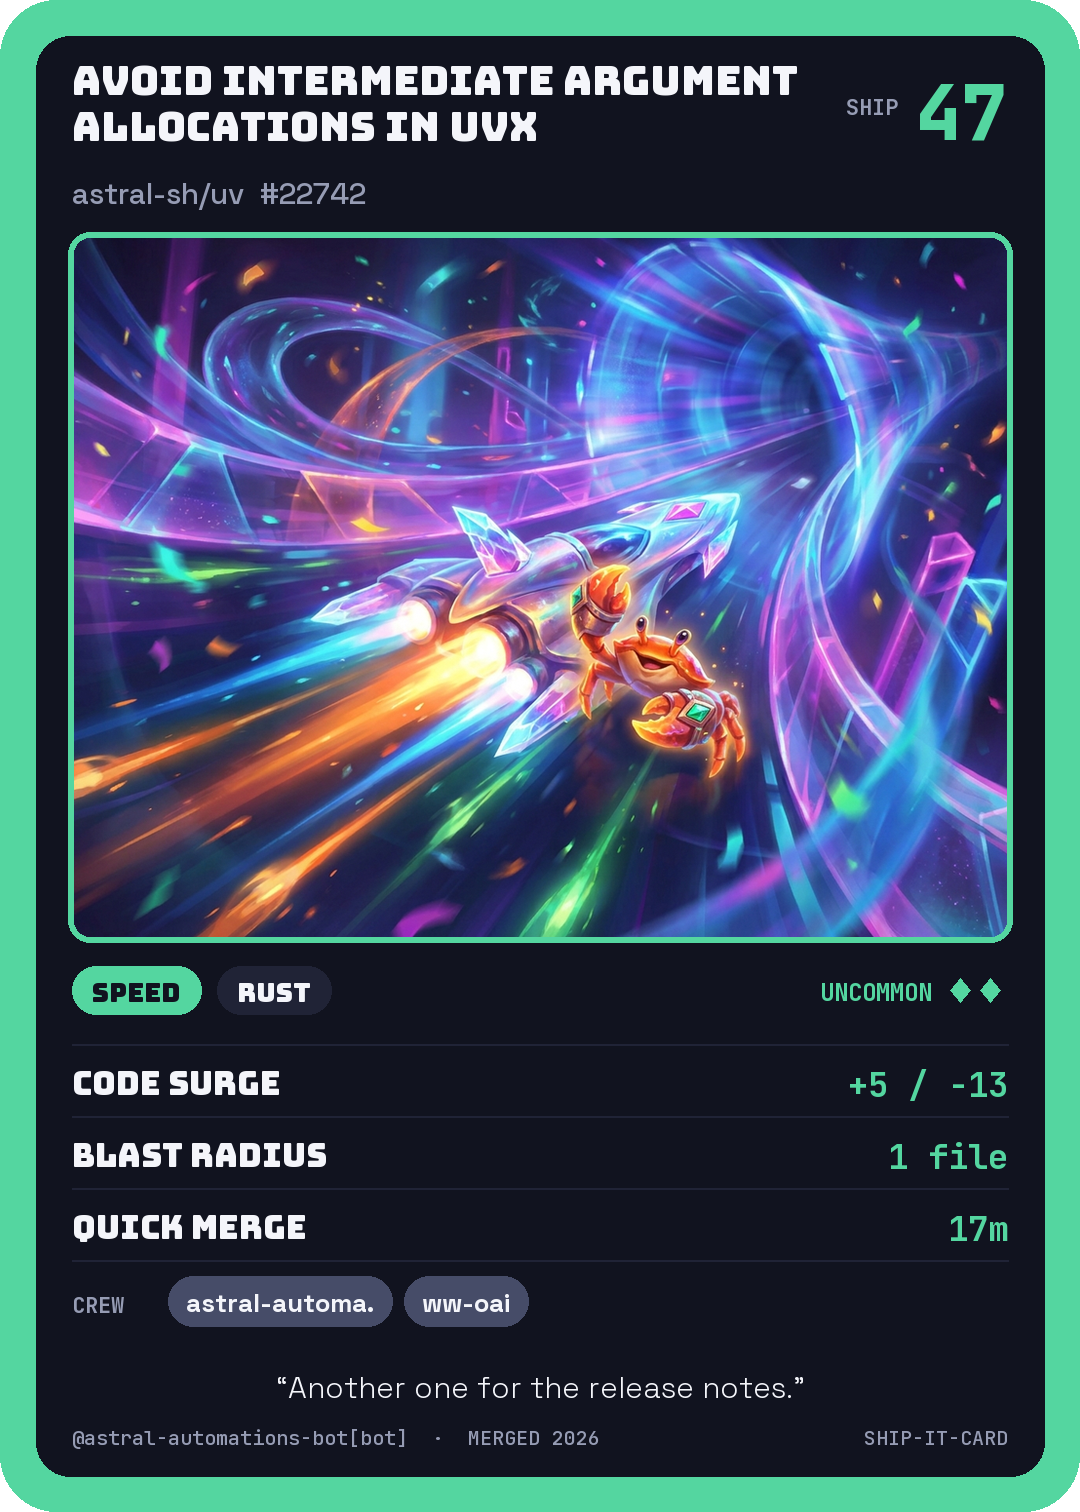
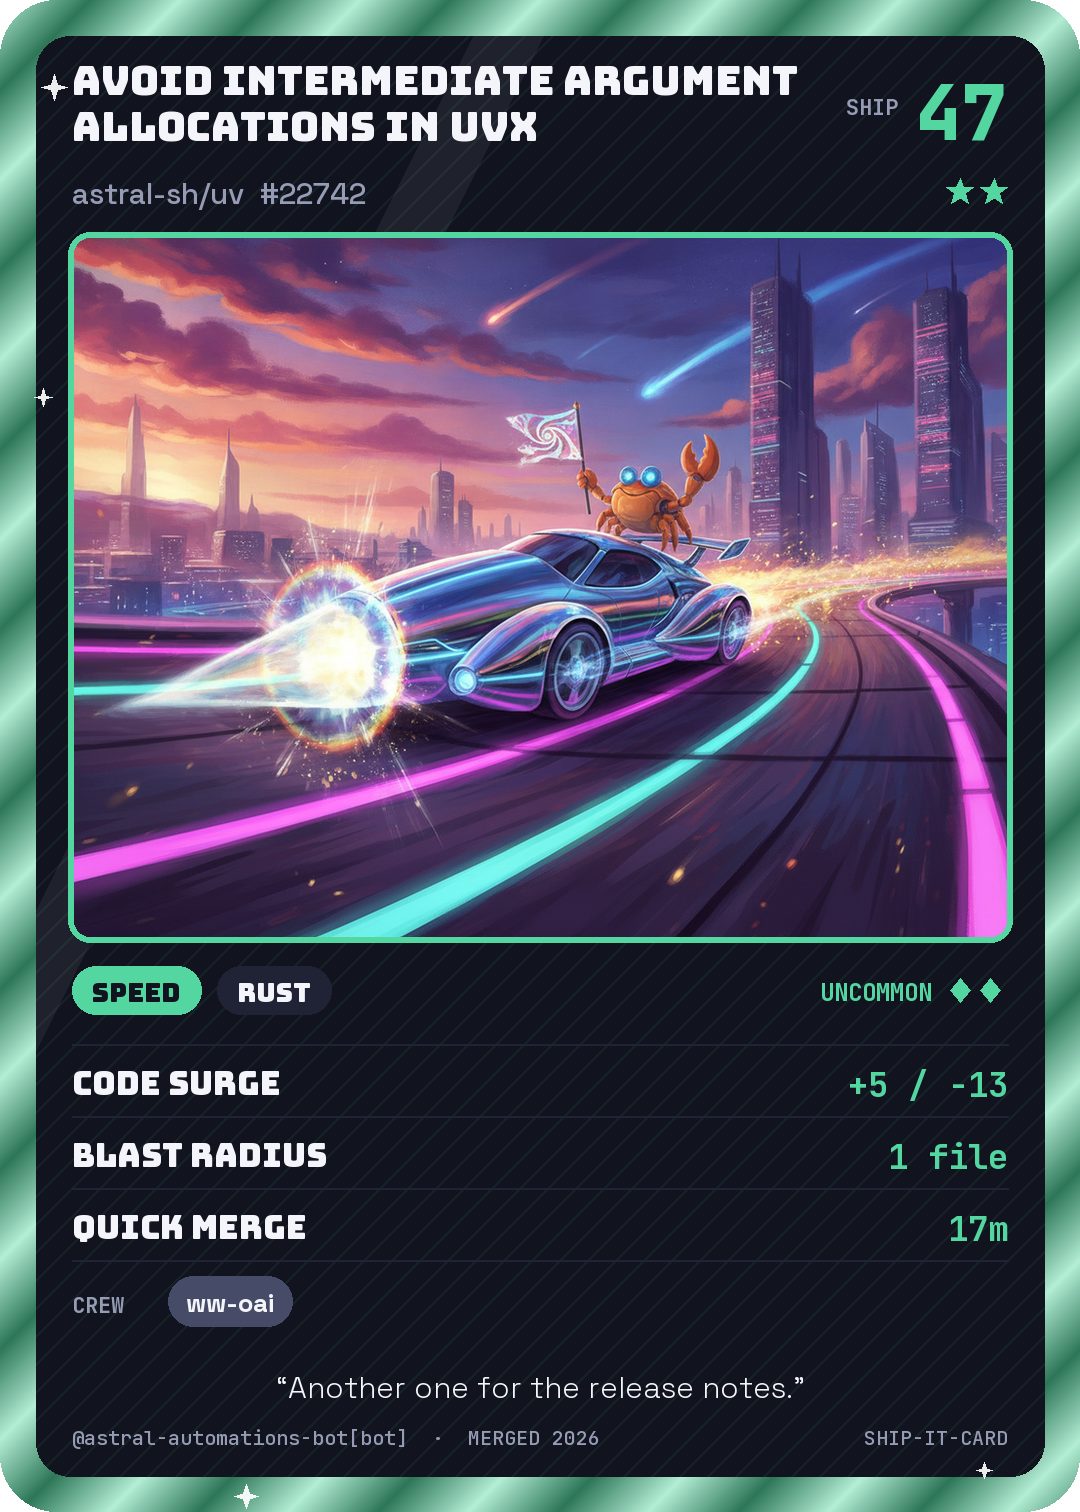
feat(card): make cards more fun with rarity-scaled flourishes (#36)
* feat(card): add rarity-scaled border sheen, stars and sparkles

Refs #28

* docs(examples): regenerate example cards with new rarity decoration

Refs #28

* fix(card): keep header stars clear of repo text and strengthen rarity test

Refs #28

---------

diff --git a/shipit/card.py b/shipit/card.py
@@ -2,7 +2,10 @@
 
 from __future__ import annotations
 
+import colorsys
 import io
+import math
+import random
 from functools import lru_cache
 from pathlib import Path
 
@@ -53,10 +56,8 @@ def font(name: str, size: int, weight: str | None = None) -> ImageFont.FreeTypeF
 def render_card(stats: CardStats, art: Image.Image) -> Image.Image:
     accent = RARITY_COLOURS.get(stats.rarity, RARITY_COLOURS["Common"])
     card = Image.new("RGBA", (W, H), (0, 0, 0, 0))
+    _frame(card, stats, accent)
     draw = ImageDraw.Draw(card)
-
-    draw.rounded_rectangle((0, 0, W - 1, H - 1), radius=56, fill=accent)
-    draw.rounded_rectangle((PAD, PAD, W - PAD, H - PAD), radius=34, fill=PANEL)
 
     _header(draw, stats, accent)
     _art(card, draw, art, accent)
@@ -65,6 +66,113 @@ def render_card(stats: CardStats, art: Image.Image) -> Image.Image:
     _crew(draw, stats, accent)
     _footer(draw, stats)
     return card
+
+
+def _rarity_level(stats: CardStats) -> int:
+    return list(RARITY_COLOURS).index(stats.rarity) if stats.rarity in RARITY_COLOURS else 0
+
+
+def _mix(a, b, t: float) -> tuple[int, int, int]:
+    return tuple(round(a[i] + (b[i] - a[i]) * t) for i in range(3))
+
+
+def _rounded_mask(box, radius: int) -> Image.Image:
+    mask = Image.new("L", (W, H), 0)
+    ImageDraw.Draw(mask).rounded_rectangle(box, radius=radius, fill=255)
+    return mask
+
+
+def _frame(card: Image.Image, stats: CardStats, accent) -> None:
+    """Draw the decorated border and panel; all of it sits behind the card content."""
+    level = _rarity_level(stats)
+    rng = random.Random(f"{stats.repo}#{stats.number}")
+    panel_box = (PAD, PAD, W - PAD, H - PAD)
+
+    # Border: diagonal sheen bands derived from the accent colour.
+    dark, light = _mix(accent, (0, 0, 0), 0.45), _mix(accent, (255, 255, 255), 0.55)
+    border = Image.new("RGB", (W, H), accent)
+    bd = ImageDraw.Draw(border)
+    period = 90 + 30 * (4 - level)
+    for d in range(0, W + H, 3):
+        t = abs(((d % period) / period) * 2 - 1)
+        colour = _mix(dark, light, t)
+        if level >= 3:  # holo hue drift for Epic / Legendary
+            hue, sat, val = colorsys.rgb_to_hsv(*(c / 255 for c in colour))
+            hue = (hue + 0.12 * (d / (W + H))) % 1.0
+            colour = tuple(round(c * 255) for c in colorsys.hsv_to_rgb(hue, sat, val))
+        bd.line((d, 0, d - H, H), fill=colour, width=4)
+    card.paste(border, (0, 0), _rounded_mask((0, 0, W - 1, H - 1), 56))
+
+    # Panel: dark base with a faint diagonal pattern.
+    panel = Image.new("RGB", (W, H), PANEL)
+    pd = ImageDraw.Draw(panel)
+    grid = _mix(PANEL, accent, 0.07)
+    for d in range(0, W + H, 28):
+        pd.line((d, 0, d - H, H), fill=grid, width=2)
+    card.paste(panel, (0, 0), _rounded_mask(panel_box, 34))
+
+    # Glossy shine band, wider and brighter for rarer cards.
+    shine = Image.new("RGBA", (W, H), (0, 0, 0, 0))
+    band = 40 + 30 * level
+    start = rng.randint(300, 700)
+    ImageDraw.Draw(shine).polygon(
+        [(start, 0), (start + band, 0), (start + band - H // 2, H), (start - H // 2, H)],
+        fill=(255, 255, 255, 10 + 5 * level),
+    )
+    clip = _rounded_mask(panel_box, 34)
+    shine.putalpha(Image.composite(shine.getchannel("A"), Image.new("L", (W, H), 0), clip))
+    card.alpha_composite(shine)
+
+    # Sparkles along the frame and panel gutters; more of them for rarer cards.
+    sparkles = Image.new("RGBA", (W, H), (0, 0, 0, 0))
+    spd = ImageDraw.Draw(sparkles)
+    for _ in range((0, 4, 8, 16, 28)[level]):
+        side = rng.randrange(4)
+        along = rng.randint(70, (W if side < 2 else H) - 70)
+        edge = rng.randint(10, PAD + 20)
+        if side == 0:
+            cx, cy = along, edge
+        elif side == 1:
+            cx, cy = along, H - edge
+        elif side == 2:
+            cx, cy = edge, along
+        else:
+            cx, cy = W - edge, along
+        _sparkle(spd, cx, cy, rng.randint(6, 10 + 3 * level), level)
+    card.alpha_composite(sparkles)
+
+
+def _sparkle(draw: ImageDraw.ImageDraw, cx: int, cy: int, r: int, level: int) -> None:
+    k = max(2, r // 4)
+    points = [
+        (cx, cy - r),
+        (cx + k, cy - k),
+        (cx + r, cy),
+        (cx + k, cy + k),
+        (cx, cy + r),
+        (cx - k, cy + k),
+        (cx - r, cy),
+        (cx - k, cy - k),
+    ]
+    draw.polygon(points, fill=(255, 255, 255, 235))
+    if level >= 3:  # extra diagonal glints on Epic / Legendary
+        d = r // 2 + 1
+        draw.line((cx - d, cy - d, cx + d, cy + d), fill=(255, 255, 255, 150), width=2)
+        draw.line((cx - d, cy + d, cx + d, cy - d), fill=(255, 255, 255, 150), width=2)
+
+
+def _header_stars(draw: ImageDraw.ImageDraw, stats: CardStats, accent) -> None:
+    """Rarity stars drawn as polygons, right-aligned under the score."""
+    count = RARITY_STARS.get(stats.rarity, 1)
+    right = W - PAD - 36
+    for i in range(count):
+        cx, cy = right - 14 - (count - 1 - i) * 34, 192
+        pts = []
+        for j in range(10):
+            ang = -math.pi / 2 + j * math.pi / 5
+            rad = 14 if j % 2 == 0 else 6
+            pts.append((cx + rad * math.cos(ang), cy + rad * math.sin(ang)))
+        draw.polygon(pts, fill=accent)
 
 
 def card_png(stats: CardStats, art: Image.Image) -> bytes:
@@ -90,7 +198,18 @@ def _header(draw: ImageDraw.ImageDraw, stats: CardStats, accent) -> None:
         y += title_font.size + 6
 
     sub = f"{stats.repo}  #{stats.number}"
-    draw.text((PAD + 36, 174), sub, font=font("body", 30, "Medium"), fill=MUTED)
+    sub_font = font("body", 30, "Medium")
+    stars_left = right - 28 - (RARITY_STARS.get(stats.rarity, 1) - 1) * 34 - 14
+    sub_space = stars_left - 16 - (PAD + 36)
+    if draw.textlength(sub, font=sub_font) > sub_space:
+        # Keep the repo text clear of the star row by ellipsizing the repo name.
+        suffix = f"...  #{stats.number}"
+        repo = stats.repo
+        while repo and draw.textlength(repo + suffix, font=sub_font) > sub_space:
+            repo = repo[:-1]
+        sub = repo + suffix
+    draw.text((PAD + 36, 174), sub, font=sub_font, fill=MUTED)
+    _header_stars(draw, stats, accent)
 
 
 def _fit_title(draw, title: str, width: float):

diff --git a/tests/test_card.py b/tests/test_card.py
@@ -65,6 +65,89 @@ def test_art_prompt_sanitises_title(pr_data):
     assert "no text" in prompt.lower()
 
 
+def _render(stats, art=None):
+    from shipit.card import render_card
+
+    return render_card(stats, art or procedural_art("fixed", "Rare"))
+
+
+def test_every_rarity_renders_at_size(pr_data):
+    stats = build_stats(pr_data)
+    for rarity in RARITY_COLOURS:
+        stats.rarity = rarity
+        image = _render(stats)
+        assert image.size == (W, H)
+        assert image.mode == "RGBA"
+
+
+def test_render_is_deterministic(pr_data):
+    stats = build_stats(pr_data)
+    art = procedural_art("fixed", "Rare")
+    assert card_png(stats, art) == card_png(stats, art)
+
+
+def test_border_is_not_flat(pr_data):
+    stats = build_stats(pr_data)
+    for rarity in RARITY_COLOURS:
+        stats.rarity = rarity
+        image = _render(stats).convert("RGB")
+        assert len({image.getpixel((x, 12)) for x in range(80, W - 80)}) > 1
+
+
+def test_legendary_differs_from_common_beyond_accent(pr_data):
+    from PIL import ImageChops
+
+    stats = build_stats(pr_data)
+    stats.rarity = "Common"
+    common = _render(stats)
+    stats.rarity = "Legendary"
+    legendary = _render(stats)
+    diff = ImageChops.difference(common.convert("RGB"), legendary.convert("RGB"))
+    assert diff.getbbox() is not None
+
+    # Near-white sparkle pixels (not accent-coloured) in the outer gutter: Legendary
+    # draws many more than Common.
+    def bright(img):
+        px = img.convert("RGB")
+        return sum(
+            1
+            for y in range(0, H, 2)
+            for x in list(range(0, 50)) + list(range(W - 50, W))
+            if min(px.getpixel((x, y))) > 240
+        )
+
+    assert bright(legendary) > bright(common) + 20
+
+
+def test_long_repo_name_clear_of_stars(pr_data, monkeypatch):
+    import random
+
+    # Pin the decoration seed so only the repo text differs between renders.
+    art = procedural_art("fixed", "Rare")
+    real_random = random.Random
+    monkeypatch.setattr("shipit.card.random.Random", lambda _seed: real_random(0))
+    stats = build_stats(pr_data)
+    stats.rarity = "Legendary"
+    short = _render(stats, art).convert("RGB")
+    stats.repo = "some-organisation/" + "very-long-repository-name-" * 6
+    long = _render(stats, art).convert("RGB")
+    # The star row must render identically: long repo text may not draw over it.
+    right = W - 36 - 36
+    stars = (right - 5 * 34 - 4, 170, right, 215)
+    assert short.crop(stars).tobytes() == long.crop(stars).tobytes()
+
+
+def test_art_region_unchanged_by_rarity(pr_data):
+    stats = build_stats(pr_data)
+    art = procedural_art("fixed", "Rare")
+    box = (80, 250, W - 80, 920)
+    stats.rarity = "Common"
+    a = _render(stats, art).crop(box)
+    stats.rarity = "Legendary"
+    b = _render(stats, art).crop(box)
+    assert a.tobytes() == b.tobytes()
+
+
 def test_long_flavor_fits_and_differs(pr_data):
     import dataclasses
 
